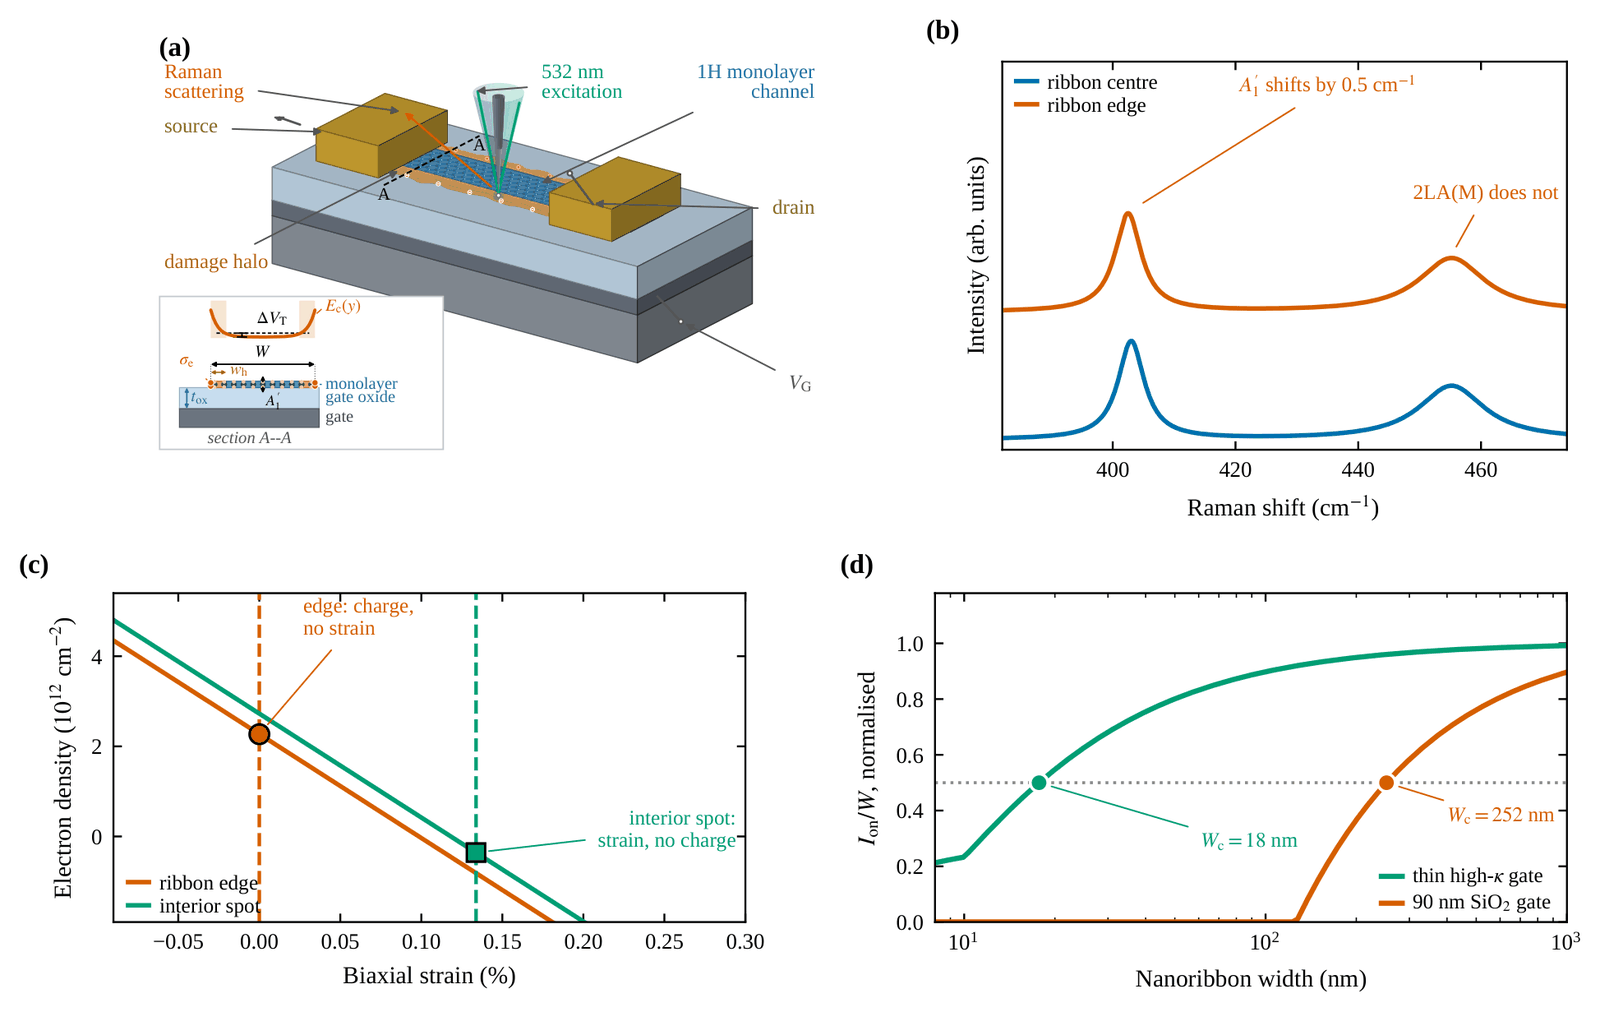
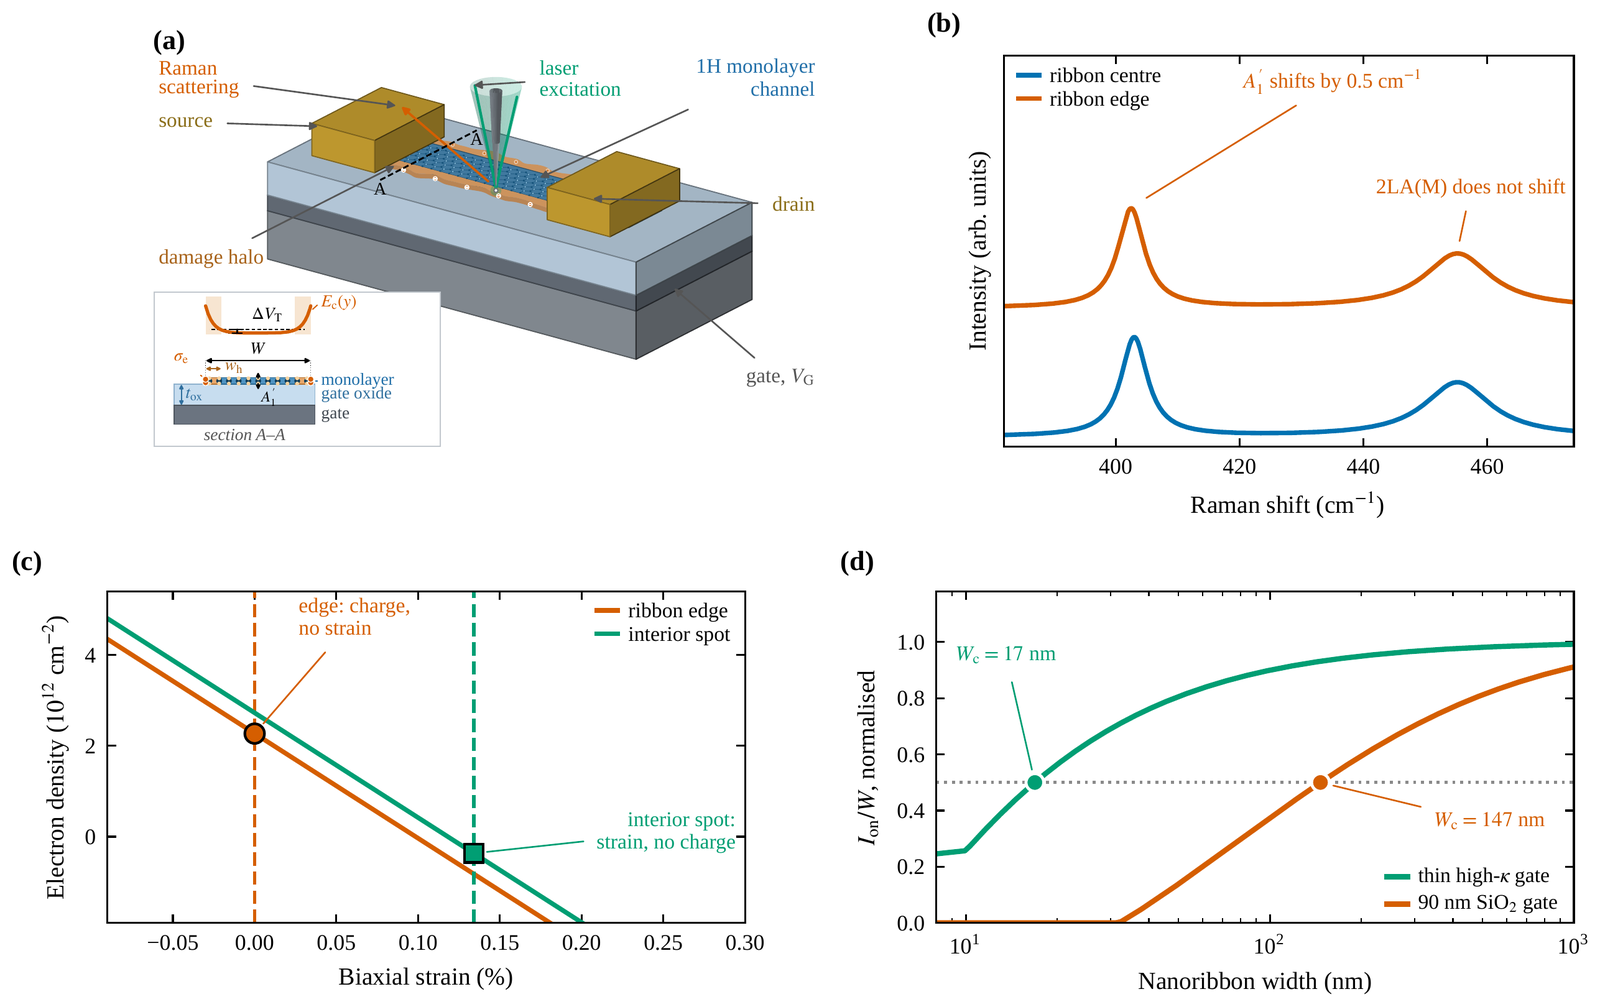
Research page: revised Raman edge-charge study (transistor thresholds, new Figure 1, data concept DOI); home summary; Software page: ramansep 0.15.2

diff --git a/research.md b/research.md
@@ -169,23 +169,25 @@ Work marked <span class="tag tag-review">Under review</span> is currently in pee
 </section>
 
 <section class="project">
-  <h3>Two Raman phonons that measure edge charge in monolayer nanoribbon transistors</h3>
-  <p class="project-meta">Monolayer TMDs · frozen-phonon DFT · tip-enhanced Raman · width scaling<span class="sep">|</span><span class="tag tag-review">Under review</span></p>
+  <h3>Two Raman peaks and transistor thresholds measure the fixed charge at etched MoS<sub>2</sub> edges</h3>
+  <p class="project-meta">Monolayer MoS<sub>2</sub> · frozen-phonon DFT · tip-enhanced Raman · gated-sheet electrostatics · width scaling<span class="sep">|</span><span class="tag tag-review">Under review</span></p>
 
   <figure class="project-figure">
-    <img src="{{ '/assets/images/research/raman-two-phonon-edge-charge.png' | relative_url }}" alt="Four panels: a monolayer nanoribbon transistor probed by tip-enhanced Raman, with the damage halo and band-edge profile inset; Raman spectra at the ribbon centre and edge; a strain-charge plot separating edge charge from interior strain; and normalized on-current versus nanoribbon width for a thin high-k gate and a 90 nm SiO2 gate." width="1600" height="1012" loading="lazy">
-    <figcaption><b>(a)</b> The device: one monolayer ribbon of width <em>W</em> on a gated stack. The etch leaves rough edges and a damaged strip beside each edge, and the fixed charge sits on the edges. The inset sketches the resulting band edge across the ribbon. <b>(b)</b> At the edge, the A′₁ Raman peak shifts by 0.5 cm⁻¹, while the 2LA(M) peak does not. <b>(c)</b> Each peak gives one line in the strain–charge plane. Where the lines cross, the edge has charge but no strain, and an interior spot has strain but no charge. <b>(d)</b> The critical width, where a ribbon loses half its current per width, is 18 nm on a thin high-κ gate and 252 nm on a 90 nm SiO₂ gate.</figcaption>
+    <img src="{{ '/assets/images/research/raman-two-phonon-edge-charge.png' | relative_url }}" alt="Four panels: a monolayer nanoribbon transistor probed by tip-enhanced Raman, with the damage halo and a cross-section inset; Raman spectra at the ribbon center and edge; a strain-charge plot separating edge charge from interior strain; and normalized on-current versus nanoribbon width for a thin high-k gate and a 90 nm SiO2 gate." width="1600" height="1007" loading="lazy">
+    <figcaption><b>(a)</b> The device: one monolayer ribbon of width <em>W</em> on a gated stack. The etch leaves rough sidewalls and a damaged strip beside each edge, and the charge sits at and near those sidewalls. The inset shows a cross-section and the band edge across it. <b>(b)</b> At the edge, the A′₁ peak shifts to lower frequency, while the 2LA(M) band does not move (schematic spectra). <b>(c)</b> Each peak shift gives one line of possible strain and charge; 2LA(M) is treated as responding to strain only. Where the two lines of one spot cross gives its strain and charge: charge without strain at the edge, and strain without charge at an interior spot. <b>(d)</b> Model prediction with the Raman-derived charge. The critical width, where the current per width falls to half, is 17 nm on a thin high-κ gate and 147 nm on a 90 nm SiO₂ gate.</figcaption>
   </figure>
 
-  <p>Cutting a single-layer semiconductor into a ribbon leaves an edge, and that edge carries fixed electric charge and strain together. A single Raman peak shifts with both, so one peak cannot tell them apart. And without a measured edge charge, nobody can predict how narrow a ribbon transistor can usefully be made.</p>
+  <p>Cutting a single-layer semiconductor into a narrow ribbon can leave electric charge or mechanical strain at its edges. Either one can limit how narrow a working transistor can be. Both shift Raman peaks, so one peak cannot tell them apart. To our knowledge, no edge charge density had been reported for such a ribbon.</p>
 
-  <p>The way out is to use two peaks. First-principles calculations on four single-layer materials (MoS<sub>2</sub>, WS<sub>2</sub>, MoSe<sub>2</sub> and WSe<sub>2</sub>) show that the 2LA(M) peak responds several times more strongly to strain than the A′₁ peak. Published measurements show that <strong>A′₁ shifts with charge</strong>. No such measurement exists for 2LA(M), so its charge response is bounded rather than assumed to be zero. Applied to published nanoscale Raman maps of MoS<sub>2</sub> ribbons, this gives what is, to our knowledge, the first measured edge charge for such a ribbon: <strong>an excess of 2.3 × 10<sup>12</sup> ± 7.6 × 10<sup>11</sup> electrons per cm<sup>2</sup>, with strain below 0.03%</strong>. A spot inside the same map turns out to be pure strain (0.134% tension) with no charge.</p>
+  <p>Two peaks of the same spectrum can tell them apart. First-principles calculations on MoS<sub>2</sub>, WS<sub>2</sub>, MoSe<sub>2</sub> and WSe<sub>2</sub> show that the 2LA(M) band is several times more sensitive to strain than the A′₁ peak (4.1 times in MoS<sub>2</sub>). A direct measurement on WSe<sub>2</sub> suggests the calculation overstates this, but the edge result does not depend on it. In MoS<sub>2</sub>, the A′₁ peak also responds strongly to added electrons. Applied to published tip-enhanced Raman maps of an etched MoS<sub>2</sub> ribbon, the pair shows that its edges hold <strong>extra electrons, 2.3 × 10<sup>12</sup> ± 7.6 × 10<sup>11</sup> per cm<sup>2</sup>, with strain below 0.03%</strong>. A spot inside the ribbon is strained (0.134% tension) but not charged.</p>
 
-  <p>In a transistor model, charge of this size matches the width at which a reported switch from normally-on to normally-off operation began on thick oxide, and its direction, but not its full size. On a thin gate insulator with high permittivity (a high-κ gate), the same charge has almost no effect. There, for a gentle etch, the damaged strip left by the etch sets the limit instead. It gives a critical width of 18 nm, just below the narrowest ribbons made so far (25 nm). On a 90 nm SiO<sub>2</sub> gate the critical width is 252 nm. With nothing fitted, the same model predicts the measured current of two published n-type ribbon transistors within 3% and 26%. It over-predicts a p-type one 3.8 times, which the paper traces to a barrier at its contacts. Film quality changes how much current a ribbon carries, but barely moves its critical width. The method needs only two peak positions that a nanoscale Raman probe already measures.</p>
+  <p>Published threshold voltages of 37 MoS<sub>2</sub> transistors, made by the same etch, give a second and independent measure. A model that solves the electric field and the electrons together shows that <strong>the fixed edge charge is negative, reaches about 12 nm into the ribbon, and amounts to 4.3 × 10<sup>7</sup> per cm of edge</strong>. Ribbons cut by another etch on a thick oxide give the same order. This is 19 times the Raman value. The paper reads the Raman value as the part of the charge seen as mobile electrons in a sample measured on gold.</p>
+
+  <p>The rest is model prediction. On a thin high-κ gate, with an assumed 5 nm damaged strip, the critical width is 17 nm with the Raman charge and 96 nm with the transistor-derived charge. Most of that rise is a threshold shift, which gate design can offset: compared at the same drive above each ribbon's own threshold, the critical width is 26 nm. With nothing fitted, the model's currents for two published n-type ribbon transistors lie 3% and 19% above the measured ones. A p-type one needs a contact barrier of 0.26 eV, within the range computed for such contacts. Film quality changes how much current a ribbon carries, but barely moves its critical width.</p>
 
   <ul class="pub-actions">
     <li><a class="chip chip-code" href="https://github.com/Tanvir-Mahmud-Mahim/Width-scaling-in-monolayer-semiconductor-nanoribbon-transistors" rel="noopener">Code · GitHub</a></li>
-    <li><a class="chip chip-data" href="https://doi.org/10.5281/zenodo.22053747" rel="noopener">Data · Zenodo</a></li>
+    <li><a class="chip chip-data" href="https://doi.org/10.5281/zenodo.21670315" rel="noopener">Data · Zenodo</a></li>
   </ul>
 </section>
 

diff --git a/index.md b/index.md
@@ -14,7 +14,7 @@ Each device I study is described once, from the material it is made of to the si
 
 <a href="{{ '/research/#quantum-optics' | relative_url }}"><strong>Squeezed-light microcombs, diamond quantum sensing and photonic machine learning</strong></a>, conducted with Dr. A. S. M. Mohsin. Squeezed light is laser light whose noise has been pushed below the usual quantum limit; it is a raw material for precision measurement. Our first published result in this area appeared in <em>Optics Express</em> (2026), and a second, FabGAN-ID, in the <em>IEEE Sensors Journal</em> (2026). FabGAN-ID learns how a deposition process really errs, from its own records, and designs optical filters that survive those errors. A single micro-ring on a silicon-carbide chip can make such light, but building the light up inside the ring and letting it out work against each other, so one ring can never deliver more than 3 dB. Adding a second ring, whose only job is extraction, releases 7.9 dB. The other project listens to magnetic noise with a diamond sensor. Vortices, tiny whirlpools of magnetic flux, waste energy in the tantalum films used in the best superconducting qubits. But not all trapped flux is lossy. A basic law of physics says that a vortex that wastes energy must also jitter, while flux held in a patterned hole stays silent. Our calculations show that a diamond spin sensor 50 nm above the film would hear one moving vortex clearly, about 6,000 times above the film's own noise. The noise then gives the loss of each vortex, so the lossy ones could be counted before a qubit is cooled. A third project, SPARQ, published in <em>ACS Photonics</em> (2026), speeds up the search for single-photon light sources. In simulation, a learning method that reads the data as they arrive reaches 90% accuracy with six times less measuring time than a standard fit. It can often decide a third of a second into a one-second measurement, at 86% accuracy. A fourth project designs a fast readout for a tin-vacancy spin in diamond, a quantum memory that talks to light. In simulation, a deliberately spoiled nanocavity on a lithium niobate chip reads the spin in 0.1 µs with 98.8% fidelity, against a measured 87.4% in 50 µs with a microscope.
 
-<a href="{{ '/research/#quantum-materials-mems' | relative_url }}"><strong>GaN and 2D semiconductor devices and physics-guided design</strong></a>, conducted with Prof. Md. Mosaddequr Rahman. Electric charge and heat-carrying vibrations are followed through nitride and single-atom-thick channels, starting from the underlying quantum states rather than from shortcuts. Three findings stand out. In the GaN/AlN system, published measurements disagree on the masses of the holes. Our calculation matches the heavy-hole mass with nothing adjusted, and shows why one experiment reads it higher: there the holes scatter before they can finish an orbit. It also shows that only one band parameter can explain the light-hole puzzle, and it identifies the kind of disorder the holes scatter from. In patterned single layers, our two-phonon method measures the electric charge trapped at a cut edge. Charge of that size matches where a reported change in how certain transistors switch on begins, yet has almost no effect on a modern thin-gate device; there, the physical damage left by the cutting process sets the size limit instead. And for a WSe<sub>2</sub> ferroelectric memory transistor, in a paper now published in <em>Materials Today Communications</em>, we show when the channel's own properties drop out of its memory window. In the model, one percent of compression then more than doubles how easily charge moves, while the 1.43 V memory window moves by less than 0.1 percent. Strain and memory can therefore be tuned separately; on the channel side, charge trapped at the surface is what limits the memory.
+<a href="{{ '/research/#quantum-materials-mems' | relative_url }}"><strong>GaN and 2D semiconductor devices and physics-guided design</strong></a>, conducted with Prof. Md. Mosaddequr Rahman. Electric charge and heat-carrying vibrations are followed through nitride and single-atom-thick channels, starting from the underlying quantum states rather than from shortcuts. Three findings stand out. In the GaN/AlN system, published measurements disagree on the masses of the holes. Our calculation matches the heavy-hole mass with nothing adjusted, and shows why one experiment reads it higher: there the holes scatter before they can finish an orbit. It also shows that only one band parameter can explain the light-hole puzzle, and it identifies the kind of disorder the holes scatter from. In patterned single layers, two Raman peaks show that a cut MoS<sub>2</sub> edge holds extra electrons but no measurable strain. Published transistor thresholds then show that the fixed charge there is negative and reaches about 12 nm into the ribbon. In a model of a thin-gate transistor, using this charge instead of the Raman value raises the predicted width at which the current per width halves from 17 to 96 nm, mostly through a threshold shift that gate design can offset. And for a WSe<sub>2</sub> ferroelectric memory transistor, in a paper now published in <em>Materials Today Communications</em>, we show when the channel's own properties drop out of its memory window. In the model, one percent of compression then more than doubles how easily charge moves, while the 1.43 V memory window moves by less than 0.1 percent. Strain and memory can therefore be tuned separately; on the channel side, charge trapped at the surface is what limits the memory.
 
 Within this area, a collaboration with Dr. Nadim Chowdhury at BUET carries the approach into <a href="{{ '/research/#wbg-devices' | relative_url }}"><strong>physics-guided circuit design</strong></a>. Here the design software computes how every circuit output responds to every design choice, so an optimizer can adjust a whole circuit automatically. Two examples. A single-chip GaN frequency synthesizer (the circuit that generates a radio's precise clock signal) stays locked from −55 to 150 °C in transistor-level simulation, and designing it revealed three device rules that set the temperature limits of such chips. And a machine-learning framework built with GlobalFoundries, Inc. sizes the transistors of analog circuits, and carries what it has learned across four different manufacturing technologies. Alongside this I worked as a consultant to GIXSystems.ai on a 100 V GaN power transistor, fabricated with X-FAB in Erfurt.
 

diff --git a/software.md b/software.md
@@ -15,7 +15,7 @@ In September 2026 the documentation of every tool was rewritten in plain languag
 <section class="project">
 <h3>ramansep</h3>
 <p class="project-meta">Raman maps of 2D materials · separating strain from doping</p>
-<p>When an atomically thin material such as MoS<sub>2</sub> is stretched, or gains extra electric charge, its Raman peaks shift. But both effects shift the same peaks, so a single measurement cannot tell them apart. ramansep untangles the two by combining peaks that respond differently, turning a Raman map into separate maps of strain and charge, each with honest error bars. It can also combine more than two peaks, and then it checks itself: it flags any pixel where strain and charge alone cannot explain the data, which no two-peak analysis can do. It ships published coefficient sets for MoS<sub>2</sub> and graphene, and its test suite reproduces the edge-charge result of the nanoribbon study on the Research page. Latest release (0.15.0): it gives the strain and charge along a line, for example against distance from an edge, with the full error budget, and turns that profile into single numbers such as the extra charge per micrometer of edge. Results no longer depend on the units chosen for the charge density; before, some good calibrations were refused and one map was off by 6 parts in 10,000. Exact error bars of the smoothed map inversion are up to about 100 times faster on a large map, and a new worked tutorial is included.</p>
+<p>When an atomically thin material such as MoS<sub>2</sub> is stretched, or gains extra electric charge, its Raman peaks shift. But both effects shift the same peaks, so a single measurement cannot tell them apart. ramansep untangles the two by combining peaks that respond differently, turning a Raman map into separate maps of strain and charge, each with honest error bars. It can also combine more than two peaks, and then it checks itself: it flags any pixel where strain and charge alone cannot explain the data, which no two-peak analysis can do. It ships cited coefficient sets for MoS<sub>2</sub> and graphene, and its test suite reproduces the edge-charge result of the nanoribbon study on the Research page. Latest release (0.15.2): its references follow the revised nanoribbon study, with the study's new title, its data archive and the caveats it states; results are unchanged. Release 0.15.0 gives the strain and charge along a line, for example against distance from an edge, with the full error budget, and turns that profile into single numbers such as the extra charge per micrometer of edge. Results no longer depend on the units chosen for the charge density; before, some good calibrations were refused and one map was off by 6 parts in 10,000. Exact error bars of the smoothed map inversion are up to about 100 times faster on a large map, and a new worked tutorial is included.</p>
 <p><code>pip install ramansep</code></p>
 <ul class="pub-actions">
 <li><a class="chip chip-code" href="https://github.com/TaN-MM-Org/ramansep" rel="noopener">Code · GitHub</a></li>
